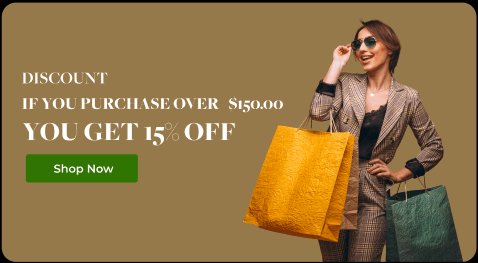
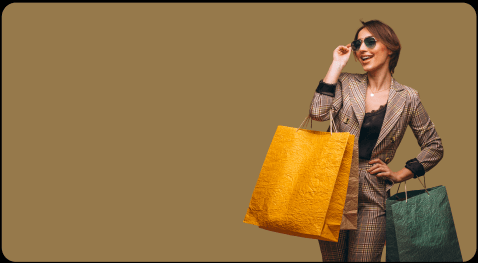
shipping fee

diff --git a/src/Components/ImageCarousel/ImageCarousel.jsx b/src/Components/ImageCarousel/ImageCarousel.jsx
@@ -1,8 +1,8 @@
-import { Dimensions, Text, View, StyleSheet, Image, TouchableHighlight } from 'react-native';
+import { Dimensions, Text, View, StyleSheet, Image, TouchableHighlight, ImageBackground } from 'react-native';
 import React, { useCallback, useEffect, useState } from 'react';
 import Carousel from 'react-native-reanimated-carousel';
 import { useNavigation } from '@react-navigation/native';
-import { isIpad, whiteColor, windowWidth } from '../../Styles/Theme';
+import { isIpad, themeColor, whiteColor, windowWidth } from '../../Styles/Theme';
 import { bannerService } from '../../Services/bannerService';
 
 const ImageCarousel = () => {
@@ -39,12 +39,19 @@ const ImageCarousel = () => {
                 renderItem={({ index, item }) => (
                     <TouchableHighlight
                         onPress={() => navigation.navigate('shop')}
-                        style={[styles.imgContainer, {paddingHorizontal: 10, borderRadius: 5}]}
+                        style={[styles.imgContainer, { paddingHorizontal: 10, borderRadius: 5 }]}
                     >
-                        <Image
+                        <ImageBackground
                             source={item.image}
-                            style={[styles.imageStyle, {borderRadius: 5}]}
-                        />
+                            style={[styles.imageStyle, { borderRadius: 5 }]}
+                        >
+                            {index === 0 ? <View style={{ paddingLeft: 20, paddingTop: 20 }}>
+                                <Text style={{ fontSize: 20, color: '#fff', fontWeight: '700' }}>Free99</Text>
+                                    <View style={{ backgroundColor: themeColor, height: 50, width: 150, borderRadius: 10, alignItems: 'flex-end', marginTop: 50, alignItems: 'center', justifyContent: 'center'}}>
+                                        <Text style={{fontSize: 20, color: '#fff', fontWeight: '700'}}>Shop now</Text>
+                                    </View>
+                            </View> : null}
+                        </ImageBackground>
                     </TouchableHighlight>
                 )}
             />

diff --git a/src/Customer/Checkout/Checkout.jsx b/src/Customer/Checkout/Checkout.jsx
@@ -90,7 +90,10 @@ const Checkout = ({ navigation }) => {
                         <Image style={styles.image} source={{ uri: item?.image }} />
                         <View style={{ flex: 1 }}>
                           <Text style={[GlobalStyle.orderMainText, { fontSize: generalFontSize - 2 }]}>{item?.name}</Text>
+                          <Text style={[GlobalStyle.orderMinText, { marginBottom: 0 }]}><Text style={{ color: textColor }}>Quantity:</Text> {item?.quantity}</Text>
                           <Text style={[GlobalStyle.orderMinText, { marginBottom: 0 }]}><Text style={{ color: textColor }}>Price:</Text> ${(item.price * item.quantity).toFixed(2)}</Text>
+                          <Text style={[GlobalStyle.orderMinText, { marginBottom: 0 }]}><Text style={{ color: textColor }}>Shipping Price:</Text> ${!item.shippingPrice ? 0 : item?.shippingPrice}</Text>
+                          <Text style={[GlobalStyle.orderMinText, { marginBottom: 0 }]}><Text style={{ color: textColor }}>Total:</Text> ${(item.price * item.quantity) + Number(item?.shippingPrice)}</Text>
                           {/* <View style={[GlobalStyle.row, GlobalStyle.aic, gap(10), margin('top', 20)]}>
                       <View style={[GlobalStyle.row, GlobalStyle.aic, gap(10)]}>
                         <TouchableOpacity onPress={() => cartService.subtract(item)} style={[styles.quantityBtn]}>

diff --git a/src/Components/AddReview/AddReview.jsx b/src/Components/AddReview/AddReview.jsx
@@ -33,8 +33,15 @@ const AddReview = ({ modalIsVisible, closeModal, itemId }) => {
         reset({ comment: '' }); // Reset form fields
     };
 
+    const [ratingError, setRatingError] = useState(false);
+
     const onSubmit = async (data) => {
+        if (!rating) {
+            setRatingError(true);
+            return;
+        }
         setLoading(true);
+        setRatingError(false)
         const reviewData = {
             product_id: itemId,
             comment: data.comment,
@@ -114,6 +121,7 @@ const AddReview = ({ modalIsVisible, closeModal, itemId }) => {
                                                         </TouchableOpacity>
                                                     ))}
                                                 </View>
+                                                {ratingError && <Text style={{ color: 'red', marginTop: 5 }}>Please give rating</Text>}
                                             </View></View>
                                         <TouchableOpacity style={[GlobalStyle.themeBtn, { marginTop: 20 }]} onPress={handleSubmit(onSubmit)}>
                                             <Text style={[GlobalStyle.themeBtnText]}>Submit Review</Text>

diff --git a/src/Customer/ProductDetail/ProductDetail.jsx b/src/Customer/ProductDetail/ProductDetail.jsx
@@ -83,6 +83,7 @@ const LoadingSkeleton = () => {
 const ProductDetail = ({ navigation, route }) => {
     const id = route.params.id;
     const [item, setItem] = useState()
+    console.log(item?.shipping_price, 'item?.shipping_price')
     const isAuth = useSelector((state) => state.auth.isAuthenticated);
     const authData = useSelector((state) => state.auth.data)
     const [isFav, setIsFav] = useState(false);
@@ -118,7 +119,8 @@ const ProductDetail = ({ navigation, route }) => {
 
             try {
                 const response = await axios.post(
-                    'https://free99us.com/api/product/best/offer', // Replace with your API endpoint
+                    // 'https://dev.free99us.com/api/product/best/offer',
+                    'https://free99us.com/api/product/best/offer',
                     formData,
                     { headers }
                 );
@@ -307,6 +309,8 @@ const ProductDetail = ({ navigation, route }) => {
     }, [disableBtn, isAuth, navigation]);
 
     const galleryImages = item?.media[currentIndex]?.image;
+
+    console.log('item', item)
 
     return (
         <View style={{ backgroundColor: bgColor, flex: 1 }}>

diff --git a/src/Services/orderService.js b/src/Services/orderService.js
@@ -137,6 +137,7 @@ export const orderService = {
             name: item?.name,
             price: item?.price,
             qty: item?.quantity,
+            shipping_price: Number(item?.shippingPrice) || 0,
             options: {
               product: {
                 id: item?.id
@@ -146,13 +147,17 @@ export const orderService = {
         })
       };
 
+      console.log(payload, 'payload')
+
       const response = await apiClient.post('/order/now', payload);
       store.dispatch(setLoading(true));
 
       return response.data;
     } catch (error) {
-      const errorMessage = error.response.data.message;
+      const errorMessage = error;
       const errors = error.response.data.errors;
+
+      console.log(error.response.data, 'qwerty')
 
       console.warn('errorMessage', errorMessage)
       for (const key in errors) {

diff --git a/src/Services/cartService.js b/src/Services/cartService.js
@@ -13,6 +13,7 @@ export const cartService = {
             name: item.name,
             quantity: 1,
             price: item.price,
+            shippingPrice: item.shipping_price,
             stock_quantity: item.stock_quantity,
             image: item?.media ? item?.media[0]?.image : item.image
         };
@@ -95,7 +96,7 @@ export const cartService = {
                 cartItems = JSON.parse(cartItems);
                 if (cartItems?.length > 0) {
                     cartItems.forEach(cartItem => {
-                        totalPrice += (cartItem?.price * cartItem?.quantity);
+                        totalPrice += (cartItem?.price * cartItem?.quantity) + Number(cartItem?.shippingPrice);
                         totalQuantity += cartItem?.quantity;
                     });
                 }

diff --git a/src/Redux/Store/Slices/Cart/index.js b/src/Redux/Store/Slices/Cart/index.js
@@ -17,8 +17,12 @@ export const cartSlice = createSlice({
     initialState,
     reducers: {
         setCart: (state, action) => {
-            state.data = action?.payload;
+            state.data = action.payload.map(item => ({
+                ...item,
+                shipping_price: item.shipping_price // Ensure shipping_price is included
+            }));
             AsyncStorage.setItem('cart', JSON.stringify(state.data));
+            // Calculate totalPrice and totalQuantity here if necessary
         },
         setTotalPrice: (state, action) => {
             state.totalPrice = action?.payload;
